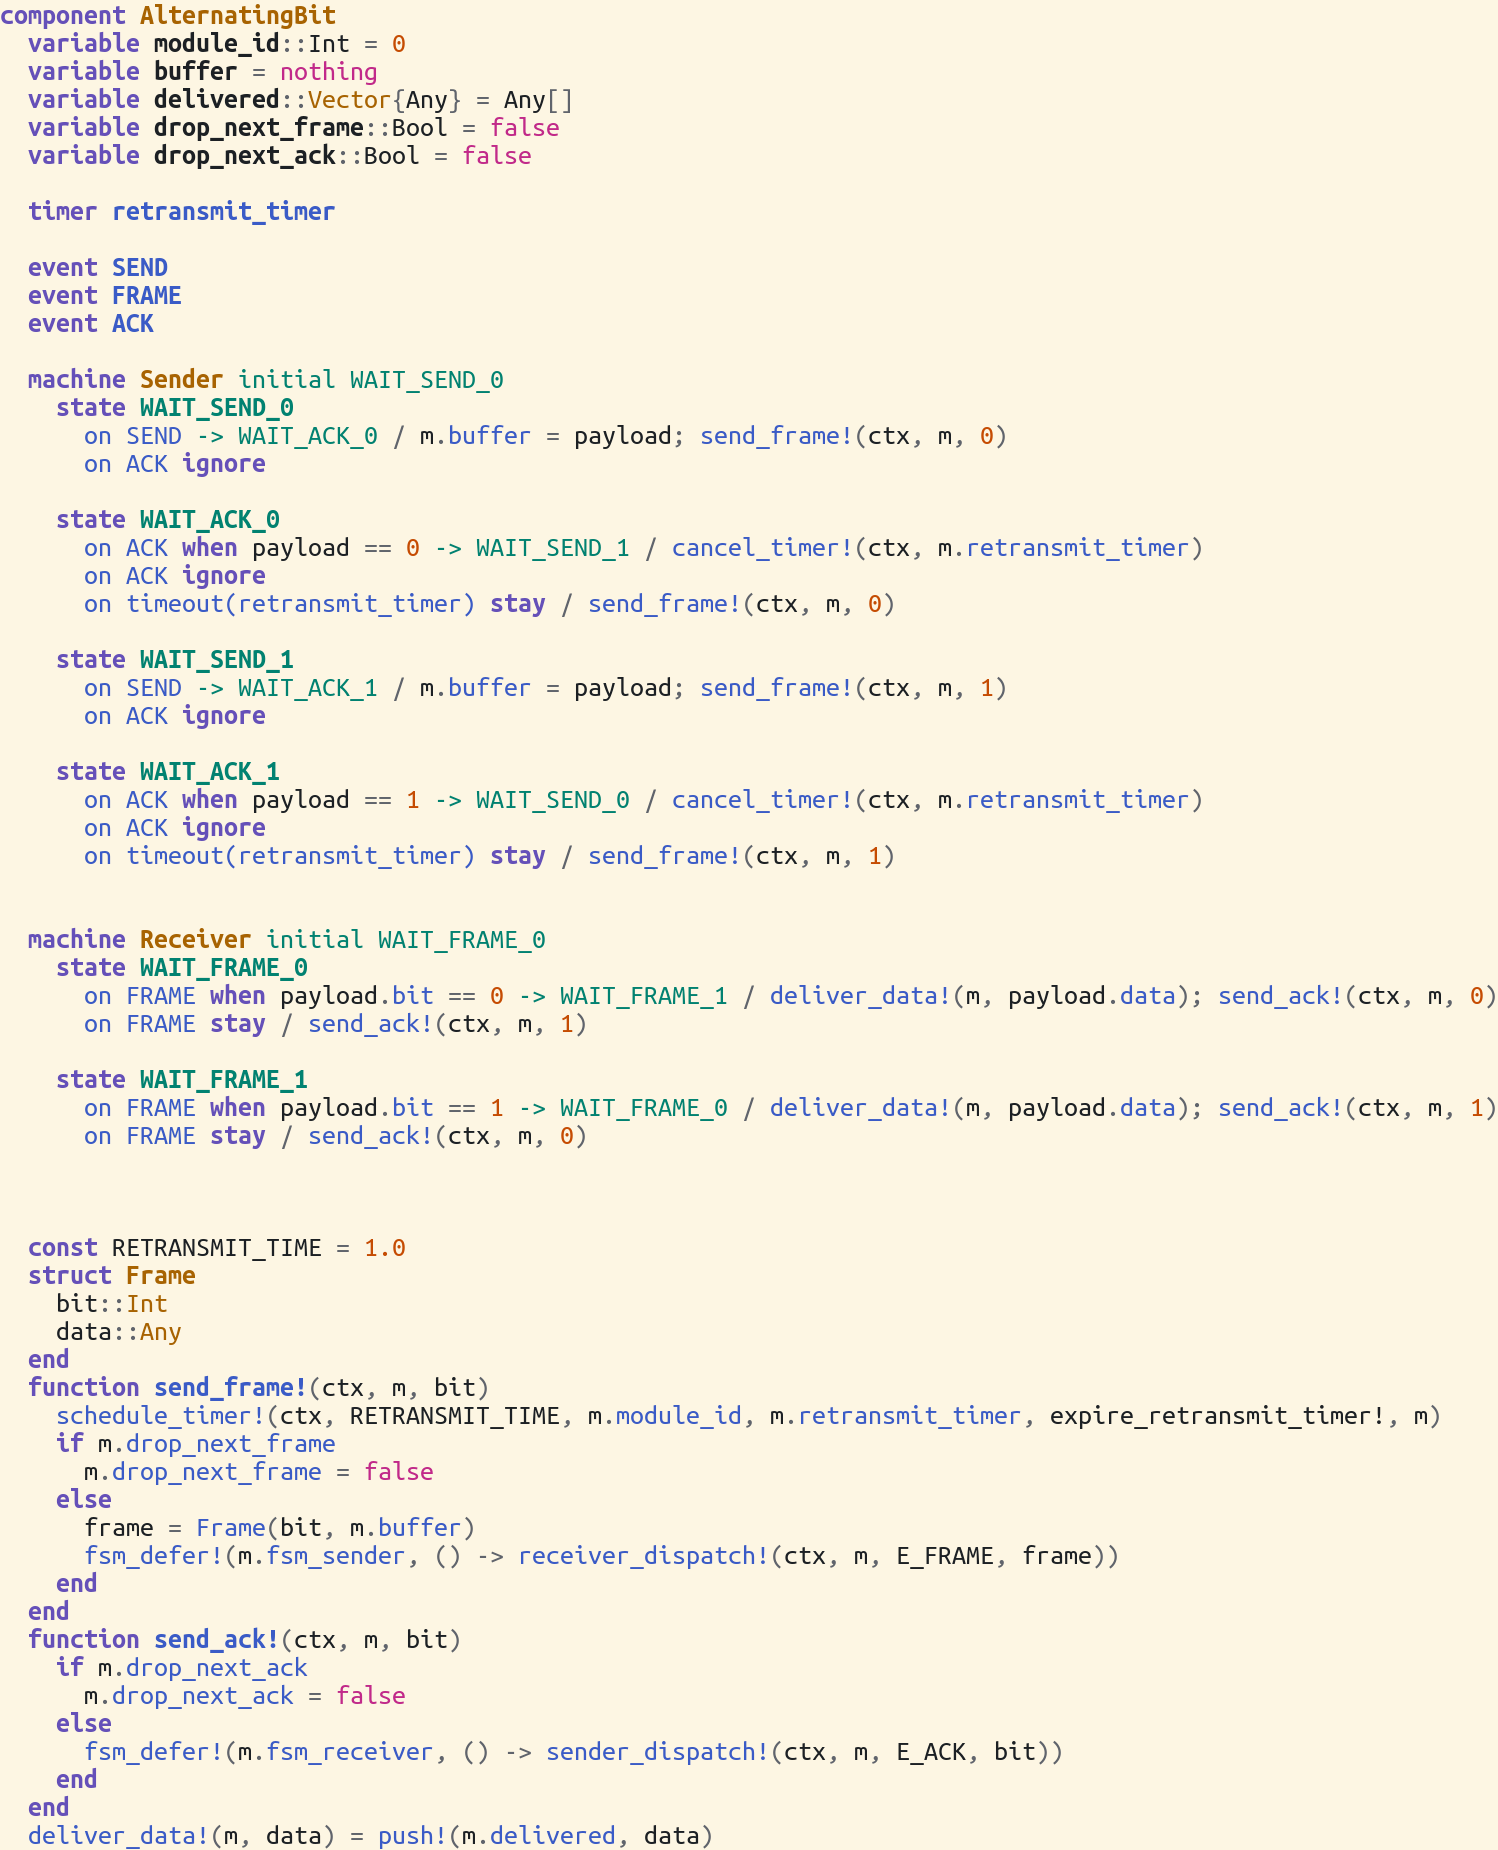
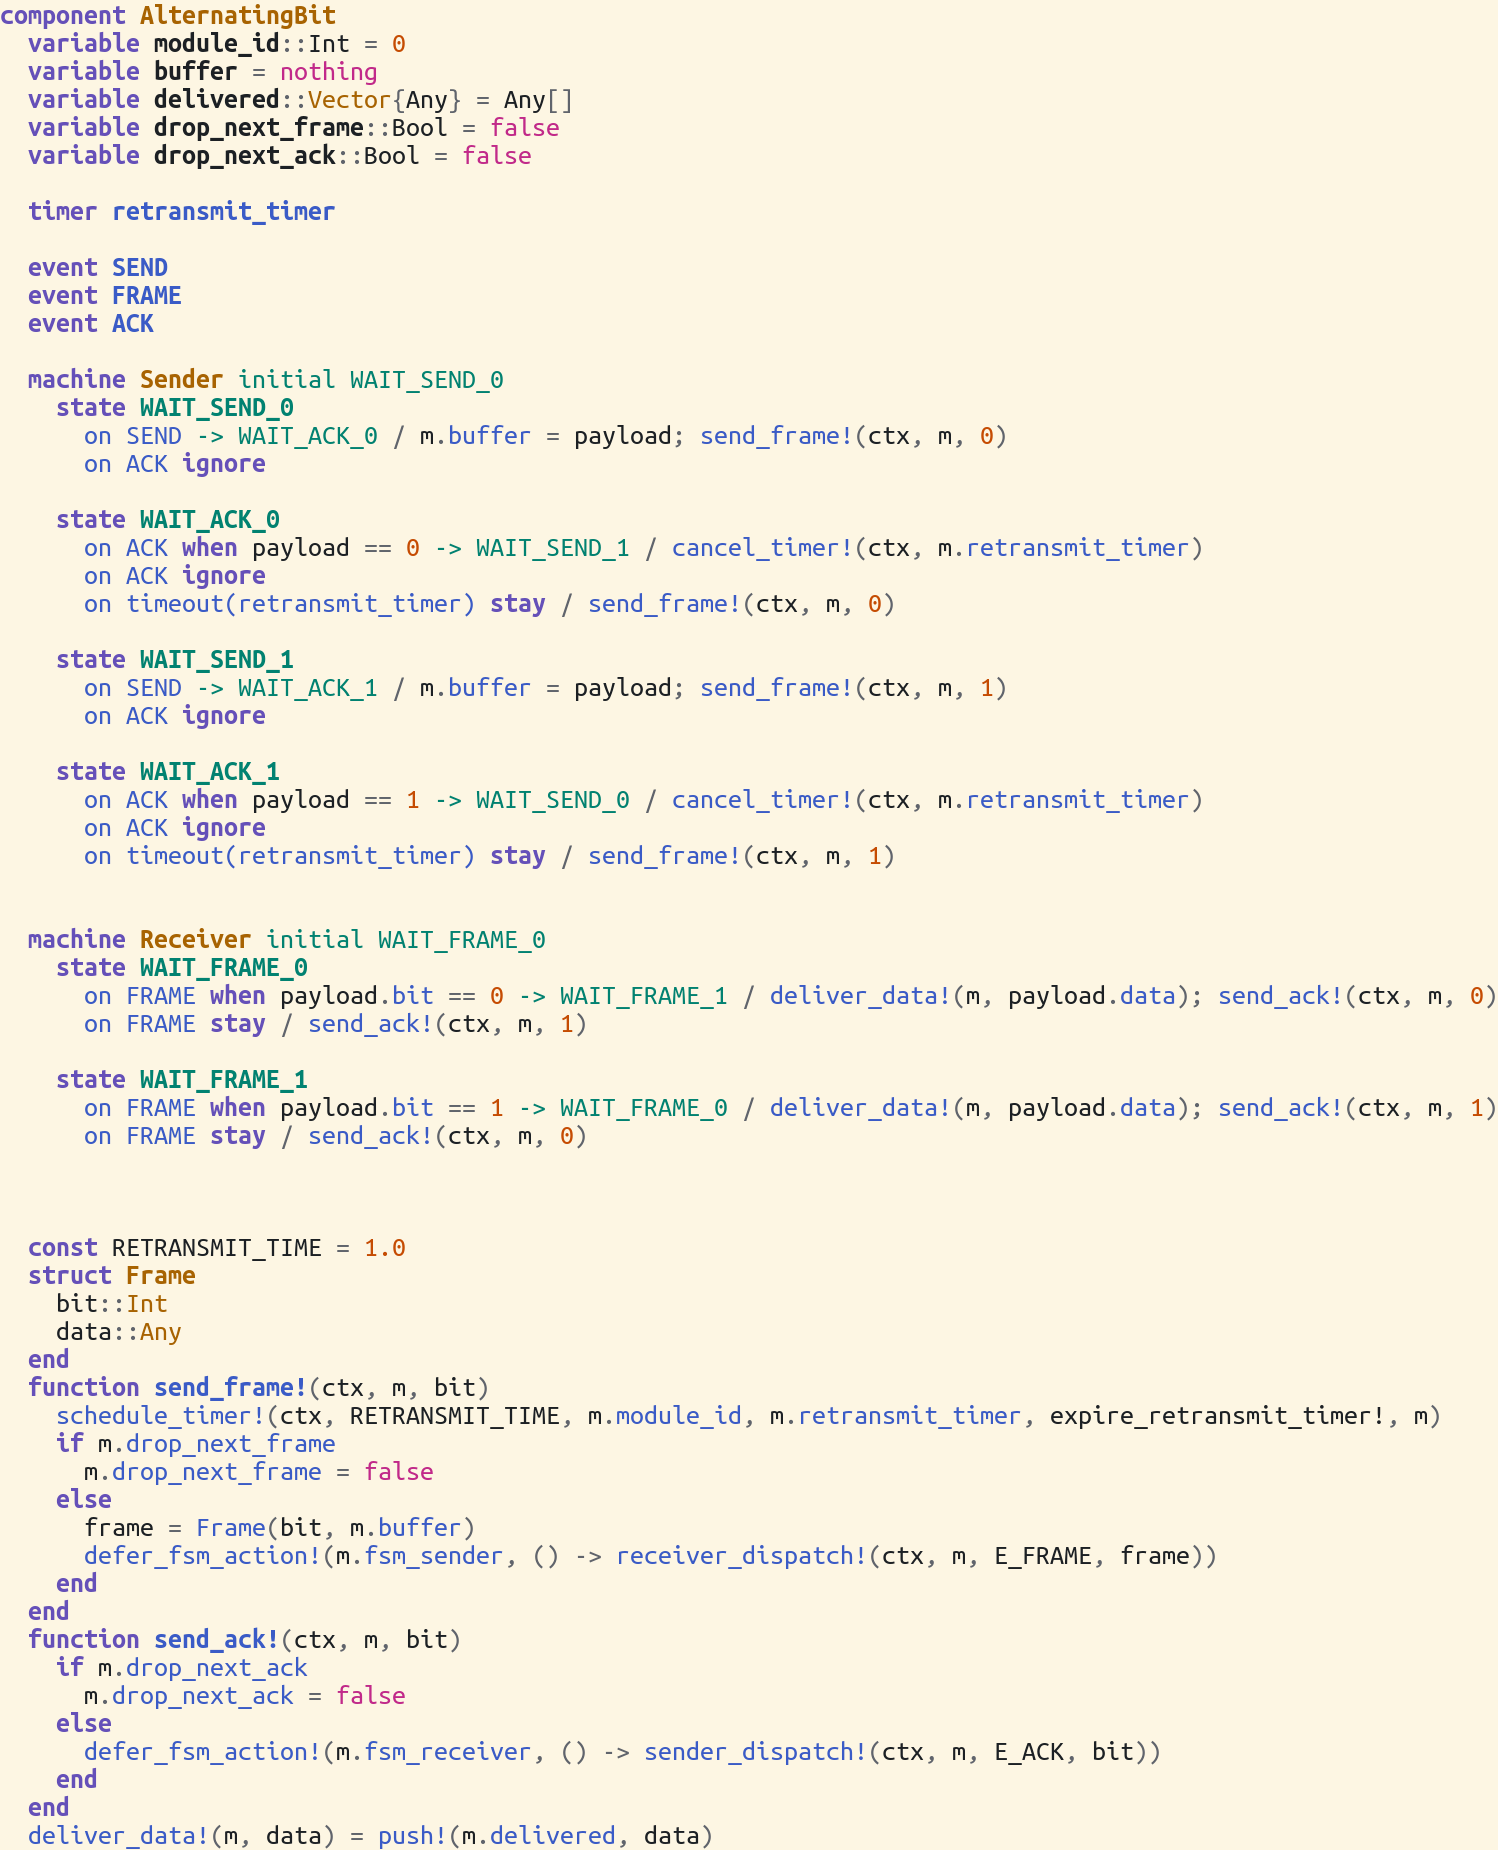
fsm: the generated code calls the names of the runtime, get_fsm_state, record_fsm_transition!, drain_fsm! and the others, and the examples defer with defer_fsm_action!

diff --git a/documentation/package/domain/fsm/fsm.md b/documentation/package/domain/fsm/fsm.md
@@ -83,17 +83,17 @@ The labels use compact rules: `FsmStateToSyntaxLabel` prints the name of a state
 - one expiry function for each timer, `expire_<timer>!(ctx, m)`;
 - the `helpers`, unchanged.
 
-The generated code and the actions in it call names that the domain does not define: `Fsm`, `TimerHandle`, `FSM_CASCADE_LIMIT`, `fsm_state`, `fsm_enter!`, `fsm_leave!`, `fsm_goto!`, `fsm_defer!`, `fsm_drain!`, `fsm_cascade_error` and `fsm_unhandled_error`. The embedder supplies a runtime module that defines them, and the timer calls that the code of a machine uses: `schedule_timer!(ctx, delay, module_id, timer, action, argument)`, `cancel_timer!(ctx, timer)` and `is_scheduled(timer)`. `test/domain/fsm/projection/FsmToJuliaCodeTest.jl` holds a small stand-in, `ProbeRuntime`, and runs generated code against it. `FsmExampleRunTest.jl` runs each example on it: the test fires a timer when it calls the action of the timer.
+The generated code and the actions in it call names that the domain does not define: `Fsm`, `TimerHandle`, `FSM_CASCADE_LIMIT`, `get_fsm_state`, `enter_fsm!`, `leave_fsm!`, `record_fsm_transition!`, `defer_fsm_action!`, `drain_fsm!`, `make_fsm_cascade_error` and `make_fsm_unhandled_error`. The embedder supplies a runtime module that defines them, and the timer calls that the code of a machine uses: `schedule_timer!(ctx, delay, module_id, timer, action, argument)`, `cancel_timer!(ctx, timer)` and `is_scheduled(timer)`. `test/domain/fsm/projection/FsmToJuliaCodeTest.jl` holds a small stand-in, `ProbeRuntime`, and runs generated code against it. `FsmExampleRunTest.jl` runs each example on it: the test fires a timer when it calls the action of the timer.
 
 ### The execution contract
 
 The generated dispatch and the runtime together keep this contract. It follows the C++ `FSMA` engine that the three reference machines, Ethernet CSMA MAC, PLCA and TCP, are built on.
 
 1. **Event pass.** The candidates are the transitions of the current state, in order: the ones triggered by this event, and every condition-only one. The first with a true guard fires. A stay or an ignore consumes the event without a change of state.
-2. **Landing and re-evaluation.** A transition that fires runs its action, then calls `fsm_goto!` with the new state and the flat index of the transition, then runs the entry of the target with `prev` and `ev` bound. Then passes of re-evaluation run, with only the condition-only transitions of the new state as candidates, because the event is spent. They repeat until nothing fires. More than `FSM_CASCADE_LIMIT` passes is an error. A stay is followed by passes of re-evaluation in the same way.
-3. **Unhandled.** If an event pass consumed nothing, `:error` calls `fsm_unhandled_error`, which throws and names the state and the event, and `:ignore` returns. CSMA MAC and PLCA data use `:error` as an exhaustiveness check; in TCP an unlisted pair is legal.
-4. **Deferred drain.** An action pushes a call that leaves the machine, such as a dispatch to a sibling machine, with `fsm_defer!`. At the end of the dispatch `fsm_drain!` copies the queue, clears it and runs the copy. So a drained call can dispatch this machine or a sibling again and does not take a pending call of the sibling. A dispatch into a machine that is inside its own cascade is an error; it is legal again during the drain.
-5. **Recording.** `fsm_goto!` receives the flat index of the transition. The runtime counts the transitions, records the last one and can call an `on_transition` hook. The same flat index is `FsmDiagram.live_transition`.
+2. **Landing and re-evaluation.** A transition that fires runs its action, then calls `record_fsm_transition!` with the new state and the flat index of the transition, then runs the entry of the target with `prev` and `ev` bound. Then passes of re-evaluation run, with only the condition-only transitions of the new state as candidates, because the event is spent. They repeat until nothing fires. More than `FSM_CASCADE_LIMIT` passes is an error. A stay is followed by passes of re-evaluation in the same way.
+3. **Unhandled.** If an event pass consumed nothing, `:error` calls `make_fsm_unhandled_error`, which throws and names the state and the event, and `:ignore` returns. CSMA MAC and PLCA data use `:error` as an exhaustiveness check; in TCP an unlisted pair is legal.
+4. **Deferred drain.** An action pushes a call that leaves the machine, such as a dispatch to a sibling machine, with `defer_fsm_action!`. At the end of the dispatch `drain_fsm!` copies the queue, clears it and runs the copy. So a drained call can dispatch this machine or a sibling again and does not take a pending call of the sibling. A dispatch into a machine that is inside its own cascade is an error; it is legal again during the drain.
+5. **Recording.** `record_fsm_transition!` receives the flat index of the transition. The runtime counts the transitions, records the last one and can call an `on_transition` hook. The same flat index is `FsmDiagram.live_transition`.
 6. **Startup.** The entry of the initial state does not run when the host is built. The host starts a machine with a dispatch of event `0`. In `FSMA` a state set outside a dispatch runs no entry, and the entry of PLCA `DS_IDLE` would otherwise send a false dispatch at time zero.
 
 Embedded code sees `ctx`, the schedule context, `m`, the host struct, and `payload`, which is `nothing` for timers and conditions. An entry also sees `prev` and `ev`. A guard must have no side effects, except a call of `is_scheduled`; nothing checks this.

diff --git a/plan/pending/the-state-machine-faults-are-fixed.md b/plan/pending/the-state-machine-faults-are-fixed.md
@@ -60,7 +60,19 @@ them.
      `FsmInsertion` into its transitions and selects it. `test_fsm()` (271),
      `test_repl` on `fsm_diagram` and `fsm_alternating_bit_diagram` (460, no
      broken entry) and `test_graph()` (634) pass.
-3. ⬜ FSM generator: emit the runtime names of omnet-julia. Change `ProbeRuntime`,
+3. ✅ FSM generator: emit the runtime names of omnet-julia. Change `ProbeRuntime`,
    the examples, the tests and `fsm.md`. Check that the generator of inet-julia
    gives its two files without a change.
+   - Done. The names stand in strings (`_call("…")`, the code of the examples and
+     the source of `ProbeRuntime`), which `julia-rename.jl` skips, so one exact
+     substitution with word limits changed the four files. `test_fsm()` (271)
+     passes. `fsm-alternating-bit.png` is made again, because it shows
+     `defer_fsm_action!`.
+   - The generator of inet-julia (its two scripts in `source/tool/generate`, run
+     on this branch) gives the runtime names at the same count as its files: 26
+     in `MacFsm.jl` and 78 in `PlcaFsm.jl`, and no old name except one comment of
+     the PLCA script. The files differ in other ways that this branch does not
+     cause: inet-julia's files come from an older printer (`+(a, b, c)`, a break
+     after `=` of a short function, blank lines with spaces), and the scripts
+     hold comments that the files do not.
 4. ⬜ Land on `main`, push, remove the worktree and the branch.
